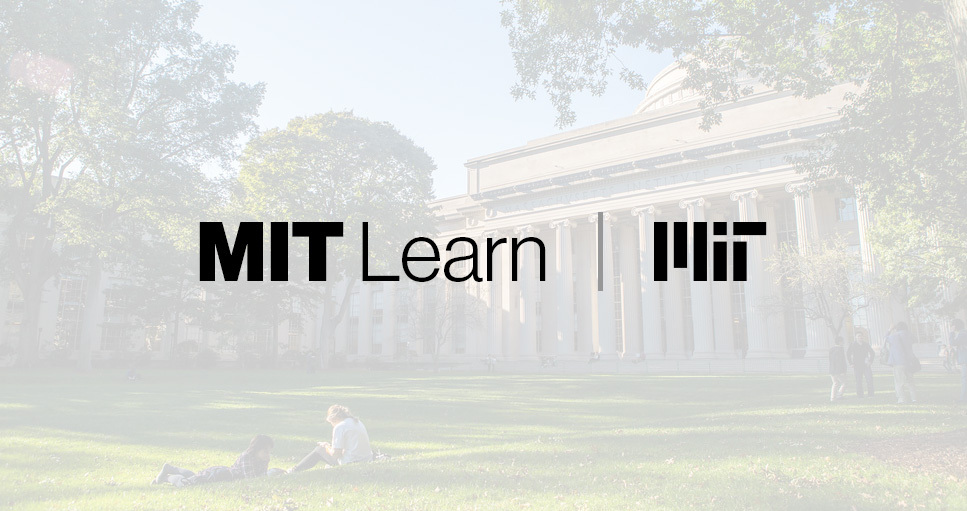
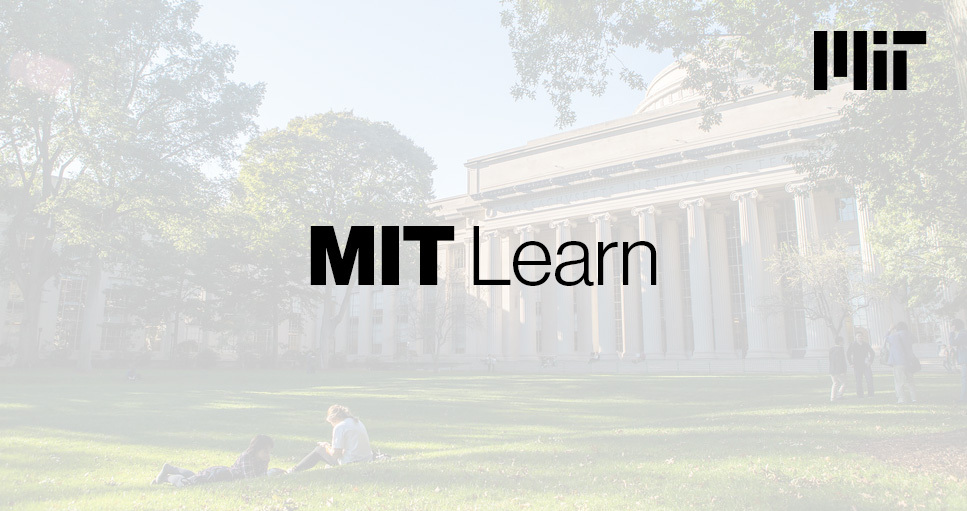
Replace the social media image

Changed region(s): [[0.1861, 0.411, 0.8066, 0.5577], [0.8376, 0.0587, 0.9617, 0.1761]]

diff --git a/frontends/main/src/common/metadata.ts b/frontends/main/src/common/metadata.ts
@@ -98,8 +98,8 @@ export const standardizeMetadata = ({
           images: [
             {
               url: image,
-              width: image === DEFAULT_OG_IMAGE ? "" : 967,
-              height: image === DEFAULT_OG_IMAGE ? "" : 511,
+              width: image === DEFAULT_OG_IMAGE ? 967 : "",
+              height: image === DEFAULT_OG_IMAGE ? 511 : "",
               alt: imageAlt,
             },
           ],
